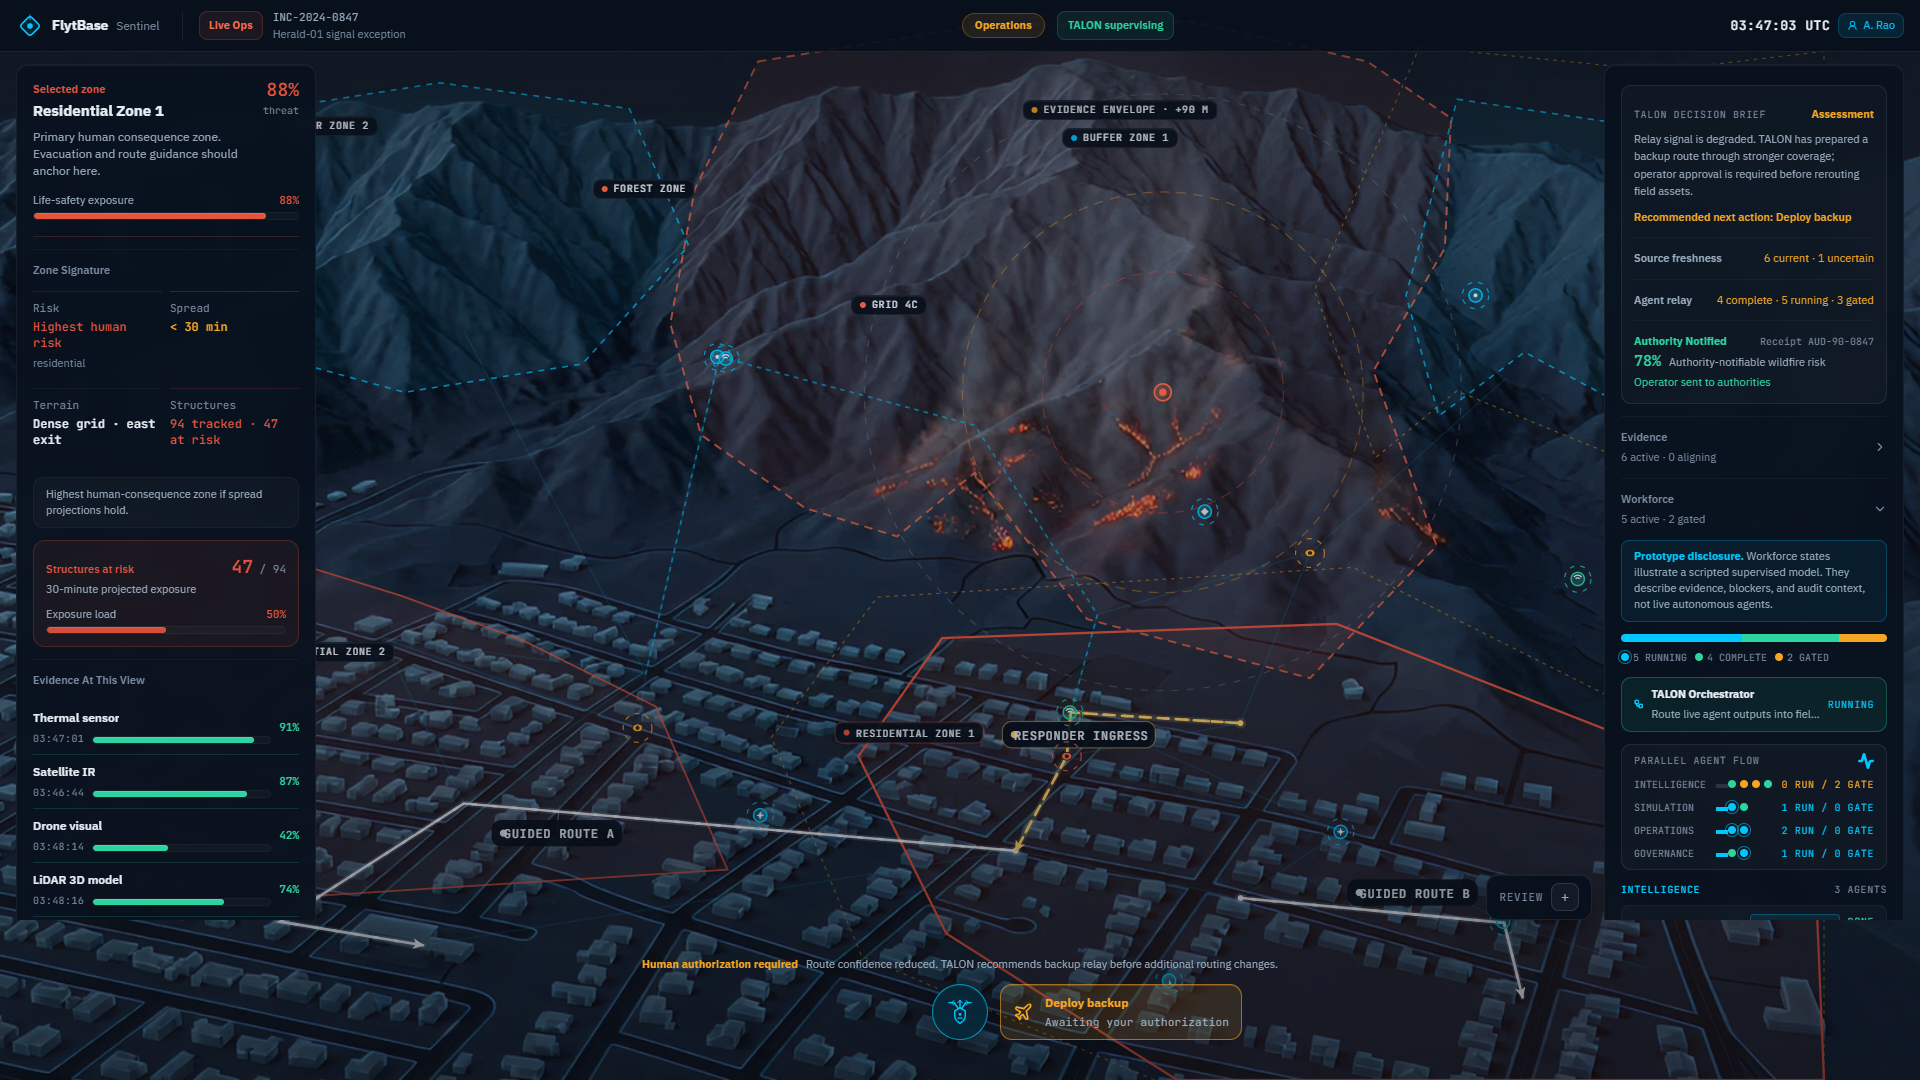
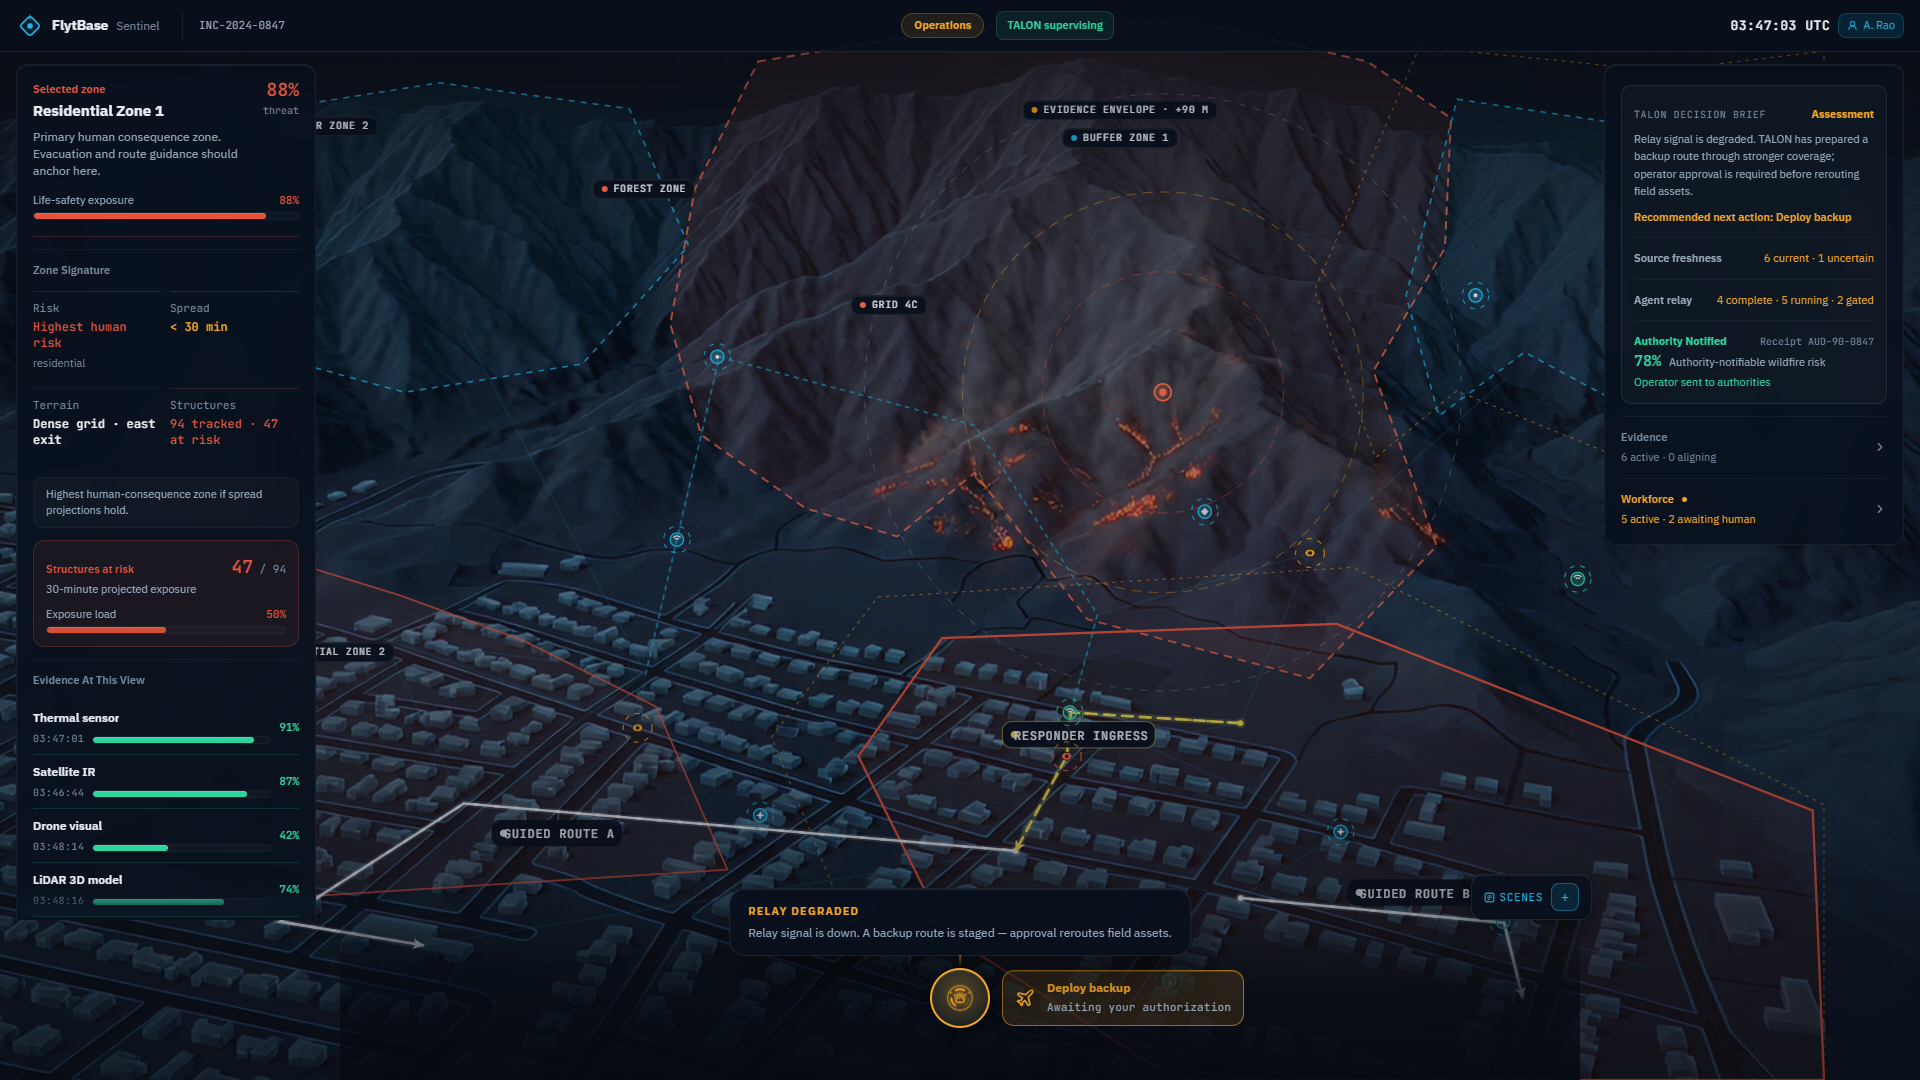
M2 chrome repairs: bounded command plinth, SCENES chip on adaptive rail + available in embeds, MapLegend deleted, stated-blocker pills, map-label suppression over command zone

diff --git a/src/app/components/ActionBar.tsx b/src/app/components/ActionBar.tsx
@@ -23,6 +23,7 @@ import {
   motion,
   radius,
   shadow,
+  shell,
   space,
   surface,
   tint,
@@ -280,24 +281,23 @@ export function ActionBar({
       aria-label="TALON command bar"
     >
       {/*
-        The command stage. Without it the orb, the gate line, and the pill are
-        three unrelated objects floating on live map texture — the map wins and
-        the decision surface reads as scattered chrome. A single grounding
-        gradient (no edge, no radius) seats the whole cluster as one surface and
-        gives the authorization moment somewhere to sit. It is a backdrop, not a
-        panel: it must never look like a fourth material.
+        The command plinth. The old full-bleed gradient (±50vw) blacked out the
+        bottom quarter of the map — depth rendered as a void. A bounded seat
+        under the cluster keeps the map alive at the edges while giving the
+        authorization moment somewhere to sit.
       */}
       <div
         aria-hidden="true"
         style={{
           position: "absolute",
-          left: "-50vw",
-          right: "-50vw",
-          bottom: "-40px",
-          top: "-96px",
+          left: "50%",
+          transform: "translateX(-50%)",
+          width: `min(1240px, calc(100vw - ${shell.safeAreaPadding * 2}px))`,
+          top: "-24px",
+          bottom: "-16px",
           zIndex: 0,
           pointerEvents: "none",
-          background: `linear-gradient(to top, ${tint(T.bgMap, 0.97)} 0%, ${tint(T.bgMap, 0.9)} 30%, ${tint(T.bgMap, 0.6)} 62%, ${tint(T.bgMap, 0)} 100%)`,
+          background: `linear-gradient(to top, ${tint(T.bgMap, 0.94)} 0%, ${tint(T.bgMap, 0.72)} 46%, ${tint(T.bgMap, 0)} 100%)`,
         }}
       />
       <style dangerouslySetInnerHTML={{ __html: `
@@ -724,9 +724,18 @@ function CommandPill({ action, onClick, state }: { action: QuickActionState; sta
             fontSize: typeScale.caption,
             color: isComplete ? withAlpha(T.teal, 0.92) : isDisabled ? T.textMuted : T.textSecondary,
             letterSpacing: "0.02em",
-            overflow: "hidden",
-            textOverflow: "ellipsis",
-            whiteSpace: "nowrap",
+            /*
+             * A stated blocker is the product speaking — never truncate it
+             * mid-sentence ("Verify bu…"). Disabled pills wrap to two lines;
+             * live subtitles stay one line.
+             */
+            overflow: isDisabled ? undefined : "hidden",
+            textOverflow: isDisabled ? undefined : "ellipsis",
+            whiteSpace: isDisabled ? "normal" : "nowrap",
+            display: isDisabled ? "-webkit-box" : undefined,
+            WebkitLineClamp: isDisabled ? 2 : undefined,
+            WebkitBoxOrient: isDisabled ? "vertical" : undefined,
+            lineHeight: isDisabled ? 1.35 : undefined,
           }}
         >
           {pillSubtitle(action, assignedDrone?.name)}
@@ -869,7 +878,11 @@ function HoldPill({ action, onConfirm }: { action: QuickActionState; onConfirm: 
             fontSize: typeScale.caption,
             color: disabled ? T.textMuted : withAlpha(tone, 0.92),
             letterSpacing: "0.02em",
-            whiteSpace: "nowrap",
+            whiteSpace: disabled ? "normal" : "nowrap",
+            display: disabled ? "-webkit-box" : undefined,
+            WebkitLineClamp: disabled ? 2 : undefined,
+            WebkitBoxOrient: disabled ? "vertical" : undefined,
+            lineHeight: disabled ? 1.35 : undefined,
           }}
         >
           {disabled

diff --git a/src/app/map/SpatialMapCanvas.tsx b/src/app/map/SpatialMapCanvas.tsx
@@ -110,7 +110,12 @@ function clampLabelX(x: number): number {
  * ring, and the inspector rail still carry the identity, so nothing is lost
  * except the collision. Coordinates are in MAP_DISPLAY space (1440×900).
  */
-const COMMAND_DOCK_ZONE = { xMin: 380, xMax: 1060, yMin: 758 };
+/*
+ * Bottom-center chrome band (command plinth, voice panel, staged commands).
+ * Map labels never render here — a zone plate under the authorization control
+ * reads as a render bug, and the label carries no urgency the chrome doesn't.
+ */
+const COMMAND_DOCK_ZONE = { xMin: 300, xMax: 1140, yMin: 720 };
 
 function collidesWithCommandDock(screen: { x: number; y: number }): boolean {
   return (
@@ -885,6 +890,7 @@ export function SpatialMapCanvas({
       <div style={{ position: "absolute", inset: 0, pointerEvents: "none" }}>
         {visibleZones.map((zone) => {
           const c = toScreen(zone.center);
+          if (collidesWithCommandDock(c)) return null;
           const tone =
             zone.category === "forest" ? "fire" :
             zone.category === "buffer" ? "cyan" : "red";

diff --git a/src/app/components/SentinelShell.tsx b/src/app/components/SentinelShell.tsx
@@ -914,12 +914,19 @@ export function SentinelShell() {
         />
       )}
 
-      {experienceMode === "free" && !coreMode && (
+      {/*
+        Scene navigation is always available — including embeds — because a
+        reviewer (or a recruiter) must reach any designed state without
+        replaying the 90-second script. It aligns to the ADAPTIVE rail width;
+        the old constant offset floated it 40px into the map at 1280, where it
+        collided with TALON's voice panel.
+      */}
+      {experienceMode === "free" && (
         <ReviewDock
           open={reviewDockOpen}
           activeScene={state.scene}
           bottomOffset={reviewDockBottom}
-          rightOffset={RIGHT_RAIL_W + SCREEN_INSET + 12}
+          rightOffset={adaptiveRailWidth + SCREEN_INSET + 12}
           onToggle={() => setReviewDockOpen((current) => !current)}
           onJumpToScene={setScene}
         />
